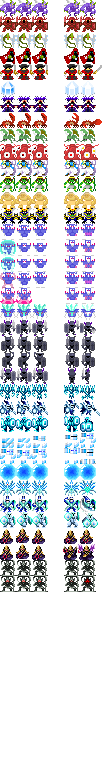
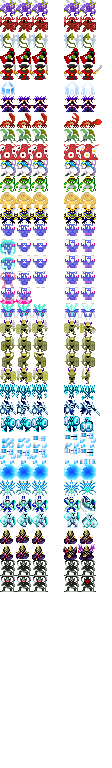
Oryx Changes

Changed region(s): [[0.0, 0.4062, 0.4286, 0.5], [0.5625, 0.4062, 0.8571, 0.5]]

diff --git a/TK-Server/wServer/core/miscfile/KingdomManager.cs b/TK-Server/wServer/core/miscfile/KingdomManager.cs
@@ -461,6 +461,7 @@ namespace wServer.core
             _discord = world.GameServer.Configuration.discordIntegration;
             _webhook = _discord.webhookRealmEvent;
 
+            SpawnEvent("Talisman King", new TalismanKing(), 1024, 1024);
             InitEvents();
             Init();
 
@@ -492,7 +493,6 @@ namespace wServer.core
                         World.GameServer.WorldManager.Nexus.PortalMonitor.CreateNewRealm();
 
                         BroadcastMsg("RAAHH MY TROOPS HAVE FAILED ME!");
-                        BroadcastMsg("THEY SHALL TASTE MY WRATH!!!");
                         BroadcastMsg("THIS KINDOM SHALL NOT FALL!!");
 
                         CurrentState = KindgomState.Emptying;
@@ -500,70 +500,37 @@ namespace wServer.core
                     break;
                 case KindgomState.Emptying:
                     {
-                        foreach(var e in World.Enemies.Values)
-                            World.LeaveWorld(e);
                         CurrentState = KindgomState.TEST_WAITING;
-                        World.Timers.Add(new WorldTimer(5000, (w, t) => CurrentState = KindgomState.Closed));
+                        foreach (var e in World.Enemies.Values)
+                        {
+                            if (e.ObjectDesc.ObjectId.Contains("Oryx Guardian TaskMaster"))
+                                continue;
+                                
+                            if (e.ObjectDesc.ObjectId.Contains("Talisman King's Golden Guardian"))
+                                e.Death(time);
+                            else
+                                World.LeaveWorld(e);
+                        }
+
+                        World.Timers.Add(new WorldTimer(30000, (w, t) => CurrentState = KindgomState.Closed));
                     }
                     break;
                 case KindgomState.Closed:
                     {
                         BroadcastMsg("ENOUGH WAITING!");
                         BroadcastMsg("YOU SHALL MEET YOUR DOOM BY MY HAND!!!");
-                        BroadcastMsg("GUARDIANS DEAL WITH THESE FOOLS!!!");
-                        BroadcastMsg("Oryx, enjoy feasting on these beasts!");
+                        BroadcastMsg("GUARDIANS AWAKEN AND KILL THESE FOOLS!!!");
 
-                        World.Broadcast(new ShowEffect()
-                        {
-                            EffectType = EffectType.Earthquake
-                        }, PacketPriority.Low);
+                        MovePeopleNaerby(time);
 
                         CurrentState = KindgomState.TEST_WAITING;
-                        World.Timers.Add(new WorldTimer(8000, (w, t) => CurrentState = KindgomState.SpawnOryx));
+                        World.FlagForClose();
                     }
                     break;
                 case KindgomState.TEST_WAITING:
                     break;
-                case KindgomState.SpawnOryx:
-                    {
-                        if (World.Players.Count >= 0)
-                        {
-                            var newWorld = World.GameServer.WorldManager.CreateNewWorld("Oryx's Castle", null, World.GameServer.WorldManager.Nexus); // todo mabye a 3rd thread for oryx's?
-
-                            var rcpNotPaused = new Reconnect()
-                            {
-                                Host = "",
-                                Port = World.GameServer.Configuration.serverInfo.port,
-                                GameId = newWorld.Id,
-                                Name = newWorld.DisplayName
-                            };
-
-                            var rcpPaused = new Reconnect()
-                            {
-                                Host = "",
-                                Port = World.GameServer.Configuration.serverInfo.port,
-                                GameId = -2,
-                                Name = "Nexus"
-                            };
-
-                            World.ForeachPlayer(_ =>
-                                _.Client.Reconnect(
-                                    _.HasConditionEffect(ConditionEffects.Paused)
-                                        ? rcpPaused
-                                        : rcpNotPaused
-                                )
-                            );
-                        }
-                        CurrentState = KindgomState.Expire;
-                    }
-                    break;
-                case KindgomState.Expire:
-                    {
-                        World.FlagForClose();
-                        CurrentState = KindgomState.Expired;
-                    }
-                    break;
                 case KindgomState.Expired:
+                    World.FlagForClose();
                     break;
             }
         }
@@ -960,18 +927,27 @@ namespace wServer.core
             return ret;
         }
 
-        private void SpawnEvent(string name, ISetPiece setpiece)
+        private void MovePeopleNaerby(TickTime time)
+        {
+            var regions = World.Map.Regions.Where(t => t.Value == TileRegion.Defender).ToArray();
+            foreach (var player in World.Players.Values)
+            {
+                var pos = regions[Random.Next(regions.Length)];
+                player.TeleportPosition(time, pos.Key.X, pos.Key.Y, true);
+            }
+        }
+
+        private void SpawnEvent(string name, ISetPiece setpiece, int x = 0, int y = 0)
         {
             if (DisableSpawning)
                 return;
 
-            var pt = new IntPoint();
-
-            do
+            var pt = new IntPoint(x, y);
+            while (World.Map[pt.X, pt.Y].Terrain < TerrainType.Mountains || World.Map[pt.X, pt.Y].Terrain > TerrainType.MidForest || !World.IsPassable(pt.X, pt.Y, true) || World.AnyPlayerNearby(pt.X, pt.Y))
             {
                 pt.X = Random.Next(0, World.Map.Width);
                 pt.Y = Random.Next(0, World.Map.Height);
-            } while (World.Map[pt.X, pt.Y].Terrain < TerrainType.Mountains || World.Map[pt.X, pt.Y].Terrain > TerrainType.MidForest || !World.IsPassable(pt.X, pt.Y, true) || World.AnyPlayerNearby(pt.X, pt.Y));
+            }
 
             var sp = setpiece ?? new NamedEntitySetPiece(name);
 

diff --git a/TK-Server/wServer/logic/db/BehaviorDb.OryxCastle.cs b/TK-Server/wServer/logic/db/BehaviorDb.OryxCastle.cs
@@ -8,16 +8,11 @@ namespace wServer.logic
     partial class BehaviorDb
     {
         private _ OryxCastle = () => Behav()
-        .Init("Oryx Stone Guardian Right",
+        .Init("Talisman King's Golden Guardian Right",
             new State(
                 new ScaleHP2(20),
                 new State("Idle",
-                    new ConditionalEffect(ConditionEffectIndex.Invulnerable, true),
-                    new PlayerWithinTransition(2, "Order")
-                    ),
-                new State("Order",
-                    new Order(10, "Oryx Stone Guardian Left", "Start"),
-                    new TimedTransition(0, "Start")
+                    new ConditionalEffect(ConditionEffectIndex.Invulnerable, true)
                     ),
                 new State("Start",
                     new ConditionalEffect(ConditionEffectIndex.Invulnerable),
@@ -25,7 +20,7 @@ namespace wServer.logic
                     new TimedTransition(1500, "Lets go")
                     ),
                 new State("Together is better",
-                    //new EntityNotExistsTransition("Oryx Stone Guardian Left", 100, "Forever Alone"),
+                    //new EntityNotExistsTransition("Talisman King's Golden Guardian Left", 100, "Forever Alone"),
                     new State("Lets go",
                         new TimedTransition(10000, "Circle"),
                         new State("Imma Follow",
@@ -45,7 +40,7 @@ namespace wServer.logic
                     new State("Circle",
                         new State("Prepare",
                             new MoveTo(speed: 1, x: 127.5f, y: 39.5f),
-                            new EntityExistsTransition("Oryx Stone Guardian Left", 1, "Prepare2")
+                            new EntityExistsTransition("Talisman King's Golden Guardian Left", 1, "Prepare2")
                             ),
                         new State("Prepare2",
                             new MoveTo(speed: 1, x: 130.5f, y: 39.5f),
@@ -160,16 +155,23 @@ namespace wServer.logic
                 )
 
             )
-        .Init("Oryx Stone Guardian Left",
+        .Init("Talisman King's Golden Guardian Left Statue",
+            new State(
+                new ConditionalEffect(ConditionEffectIndex.Invincible, true),
+                new TransformOnDeath("Talisman King's Golden Guardian Left")
+                )
+            )
+        .Init("Talisman King's Golden Guardian Right Statue",
+            new State(
+                new ConditionalEffect(ConditionEffectIndex.Invincible, true),
+                new TransformOnDeath("Talisman King's Golden Guardian Right")
+                )
+            )
+        .Init("Talisman King's Golden Guardian Left",
             new State(
                 new ScaleHP2(20),
                 new State("Idle",
-                    new ConditionalEffect(ConditionEffectIndex.Invulnerable, true),
-                    new PlayerWithinTransition(2, "Order")
-                    ),
-                new State("Order",
-                    new Order(10, "Oryx Stone Guardian Right", "Start"),
-                    new TimedTransition(0, "Start")
+                    new ConditionalEffect(ConditionEffectIndex.Invulnerable, true)
                     ),
                 new State("Start",
                     new ConditionalEffect(ConditionEffectIndex.Invulnerable),
@@ -177,7 +179,7 @@ namespace wServer.logic
                     new TimedTransition(1500, "Together is better")
                     ),
                 new State("Together is better",
-                    //new EntityNotExistsTransition("Oryx Stone Guardian Right", 100, "Forever Alone"),
+                    //new EntityNotExistsTransition("Talisman King's Golden Guardian Right", 100, "Forever Alone"),
                     new State("Lets go",
                         new TimedTransition(10000, "Circle"),
                         new State("Imma Follow",
@@ -197,7 +199,7 @@ namespace wServer.logic
                     new State("Circle",
                         new State("Prepare",
                             new MoveTo(speed: 1, x: 127.5f, y: 39.5f),
-                            new EntityExistsTransition("Oryx Stone Guardian Right", 1, "Prepare2")
+                            new EntityExistsTransition("Talisman King's Golden Guardian Right", 1, "Prepare2")
                             ),
                         new State("Prepare2",
                             new MoveTo(speed: 1, x: 124.5f, y: 39.5f),
@@ -314,8 +316,19 @@ namespace wServer.logic
         .Init("Oryx Guardian TaskMaster",
             new State(
                 new ConditionalEffect(ConditionEffectIndex.Invincible, true),
-                new State("Idle",
-                    new EntitiesNotExistsTransition(100, "Death", "Oryx Stone Guardian Right", "Oryx Stone Guardian Left")
+                new State("WaitingChange",
+                    new EntitiesNotExistsTransition(100, "WaitingChange", "Talisman King's Golden Guardian Right Statue", "Talisman King's Golden Guardian Left Statue")
+                    ),
+                new State("WaitingChange",
+                    new PlayerWithinTransition(15, "Activate", true)
+                    ),
+                new State("Activate",
+                    new Order(15, "Talisman King's Golden Guardian Left", "Start"),
+                    new Order(15, "Talisman King's Golden Guardian Right", "Start"),
+                    new TimedTransition(1000, "Waiting")
+                    ),
+                new State("Waiting",
+                    new EntitiesNotExistsTransition(100, "Death", "Talisman King's Golden Guardian Right", "Talisman King's Golden Guardian Left")
                     ),
                 new State("Death",
                     //new Spawn("Wine Cellar Portal", 1, 1),

diff --git a/TK-Server/wServer/core/commands/admin/Command.Give.cs b/TK-Server/wServer/core/commands/admin/Command.Give.cs
@@ -1,0 +1,59 @@
+using wServer.core.objects;
+
+namespace wServer.core.commands
+{
+    public abstract partial class Command
+    {
+        internal class Give : Command
+        {
+            public Give() : base("give", permLevel: 60)
+            {
+            }
+
+            protected override bool Process(Player player, TickTime time, string args)
+            {
+                /*if(player.Rank == 60)
+                {
+                    player.SendError("This feature is disabled!");
+                    return true;
+                }*/
+
+                var gameData = player.GameServer.Resources.GameData;
+
+                /*if (player.Client.Account.Rank == 60)
+                {
+                    player.SendInfo("This command is disabled due to game altering bug!");
+                    return false;
+                }*/
+
+                // allow both DisplayId and Id for query
+                if (!gameData.DisplayIdToObjectType.TryGetValue(args, out ushort objType))
+                {
+                    if (!gameData.IdToObjectType.TryGetValue(args, out objType))
+                    {
+                        player.SendError("Unknown item type!");
+                        return false;
+                    }
+                }
+
+                if (!gameData.Items.ContainsKey(objType))
+                {
+                    player.SendError("Not an item!");
+                    return false;
+                }
+
+                var item = gameData.Items[objType];
+
+                var availableSlot = player.Inventory.GetAvailableInventorySlot(item);
+                if (availableSlot != -1)
+                {
+                    player.Inventory[availableSlot] = item;
+                    return true;
+                }
+
+                player.SendError("Not enough space in inventory!");
+                return false;
+            }
+        }
+    }
+}

diff --git a/TK-Server/wServer/core/commands/player/UnrankedCommands.cs b/TK-Server/wServer/core/commands/player/UnrankedCommands.cs
@@ -761,11 +761,24 @@ namespace wServer.core.commands
             }
             else
             {
-                player.TeleportPosition(time, 970, 1020);
                 player.ApplyConditionEffect(ConditionEffectIndex.Invulnerable, 3000);
                 player.ApplyConditionEffect(ConditionEffectIndex.Invisible, 3000);
                 player.ApplyConditionEffect(ConditionEffectIndex.Stunned, 3000);
                 player.ApplyConditionEffect(ConditionEffectIndex.Paralyzed, 3000);
+
+                var random = new Random();
+
+                var world = player.World;
+
+                var pt = new IntPoint();
+                do
+                {
+                    pt.X = random.Next(0, world.Map.Width);
+                    pt.Y = random.Next(0, world.Map.Height);
+                }
+                while (world.Map[pt.X, pt.Y].Terrain != TerrainType.Mountains || !world.IsPassable(pt.X, pt.Y, true) || world.AnyPlayerNearby(pt.X, pt.Y, 5));
+            
+                player.TeleportPosition(time, pt.X, pt.Y);
             }
 
             return true;

diff --git a/TK-Server/server/account/register.cs b/TK-Server/server/account/register.cs
@@ -10,11 +10,11 @@ namespace server.account
     {
         public override void HandleRequest(RequestContext context, NameValueCollection query)
         {
-            if (query["tester"] != "1")
-            {
-                Write(context, "<Error>Testers Only</Error>");
-                return;
-            }
+            //if (query["tester"] != "1")
+            //{
+            //    Write(context, "<Error>Testers Only</Error>");
+            //    return;
+            //}
 
             if (!Utils.IsValidEmail(query["newGUID"]))
                 Write(context, "<Error>Invalid email</Error>");

diff --git a/TK-Server/wServer/core/setpieces/TalismanKing.cs b/TK-Server/wServer/core/setpieces/TalismanKing.cs
@@ -1,0 +1,10 @@
+using wServer.core.worlds;
+
+namespace wServer.core.setpieces
+{
+    internal class TalismanKing : ISetPiece
+    {
+        public override int Size => 128;
+        public override string Map => "set_piece/talisman_king.jm";
+    }
+}
